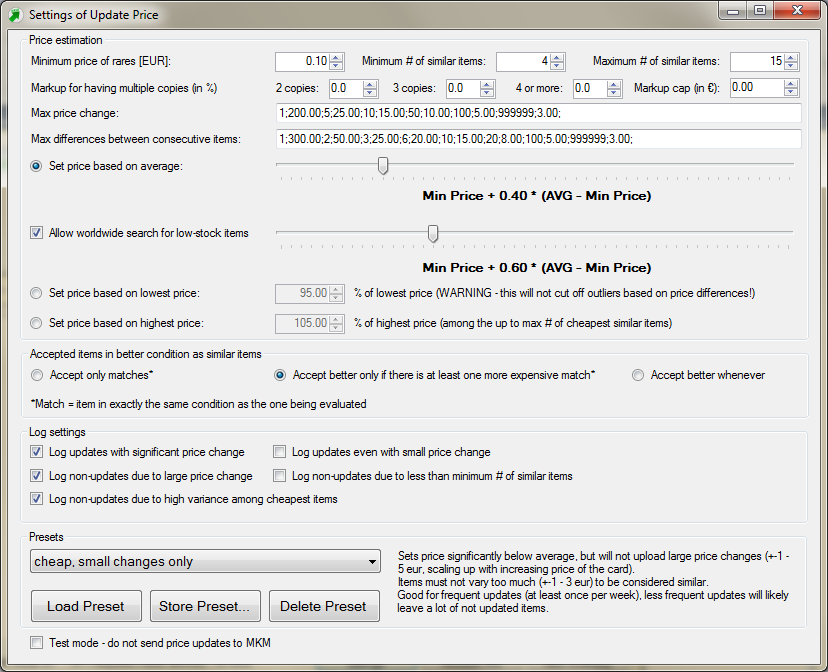
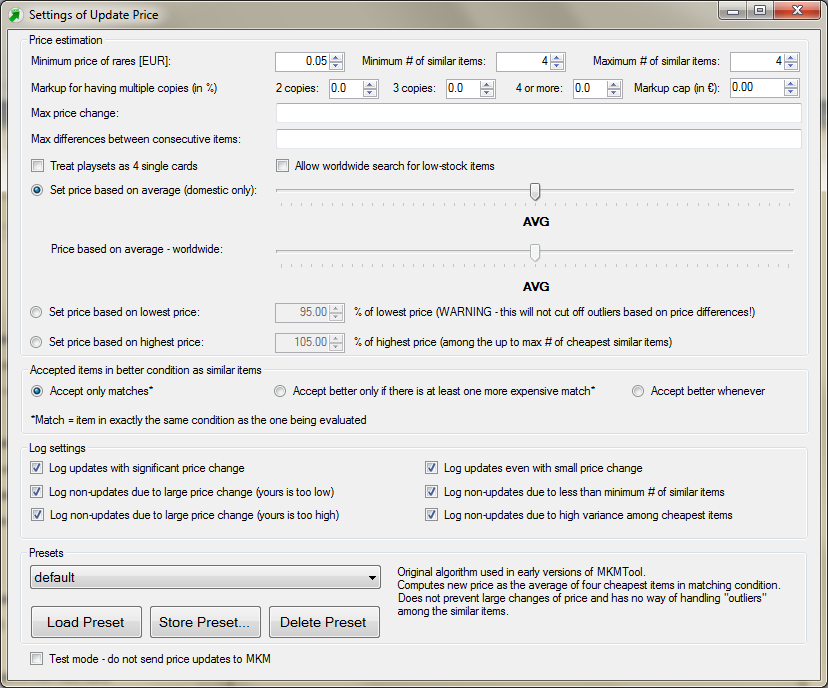
[updatePrice] Divided logging of non-updates due to large price change into "your price is too high" and "your price is too low" separate logging options
Also the app was actually ignoring it and instead checking the value of "non-updates due to high variance" where it should have been checking the "large price", so it was doing nothing

diff --git a/MKMTool/UpdatePriceSettings.Designer.cs b/MKMTool/UpdatePriceSettings.Designer.cs
@@ -64,7 +64,7 @@ namespace MKMTool
             System.ComponentModel.ComponentResourceManager resources = new System.ComponentModel.ComponentResourceManager(typeof(UpdatePriceSettings));
             this.groupBoxLogSettings = new System.Windows.Forms.GroupBox();
             this.checkBoxLogHighVariance = new System.Windows.Forms.CheckBox();
-            this.checkBoxLogLargeChange = new System.Windows.Forms.CheckBox();
+            this.checkBoxLogLargeChangeLow = new System.Windows.Forms.CheckBox();
             this.checkBoxLogSmallChange = new System.Windows.Forms.CheckBox();
             this.checkBoxLogMinItems = new System.Windows.Forms.CheckBox();
             this.checkBoxLogUpdated = new System.Windows.Forms.CheckBox();
@@ -75,6 +75,7 @@ namespace MKMTool
             this.radioButtonCondMatchOnly = new System.Windows.Forms.RadioButton();
             this.groupBoxPriceEstim = new System.Windows.Forms.GroupBox();
             this.labelWorlwideAvg = new System.Windows.Forms.Label();
+            this.checkBoxPricePlaysetIgnore = new System.Windows.Forms.CheckBox();
             this.labelMultCopiesCap = new System.Windows.Forms.Label();
             this.numericUpDownPriceMultCopiesCap = new System.Windows.Forms.NumericUpDown();
             this.label1 = new System.Windows.Forms.Label();
@@ -118,7 +119,7 @@ namespace MKMTool
             this.buttonPresetsLoad = new System.Windows.Forms.Button();
             this.comboBoxPresets = new System.Windows.Forms.ComboBox();
             this.toolTip1 = new System.Windows.Forms.ToolTip(this.components);
-            this.checkBoxPricePlaysetIgnore = new System.Windows.Forms.CheckBox();
+            this.checkBoxLogLargeChangeHigh = new System.Windows.Forms.CheckBox();
             this.groupBoxLogSettings.SuspendLayout();
             this.groupBoxConditionSettings.SuspendLayout();
             this.groupBoxPriceEstim.SuspendLayout();
@@ -141,8 +142,9 @@ namespace MKMTool
             // 
             // groupBoxLogSettings
             // 
+            this.groupBoxLogSettings.Controls.Add(this.checkBoxLogLargeChangeHigh);
             this.groupBoxLogSettings.Controls.Add(this.checkBoxLogHighVariance);
-            this.groupBoxLogSettings.Controls.Add(this.checkBoxLogLargeChange);
+            this.groupBoxLogSettings.Controls.Add(this.checkBoxLogLargeChangeLow);
             this.groupBoxLogSettings.Controls.Add(this.checkBoxLogSmallChange);
             this.groupBoxLogSettings.Controls.Add(this.checkBoxLogMinItems);
             this.groupBoxLogSettings.Controls.Add(this.checkBoxLogUpdated);
@@ -158,31 +160,31 @@ namespace MKMTool
             this.checkBoxLogHighVariance.AutoSize = true;
             this.checkBoxLogHighVariance.Checked = true;
             this.checkBoxLogHighVariance.CheckState = System.Windows.Forms.CheckState.Checked;
-            this.checkBoxLogHighVariance.Location = new System.Drawing.Point(10, 66);
+            this.checkBoxLogHighVariance.Location = new System.Drawing.Point(405, 66);
             this.checkBoxLogHighVariance.Name = "checkBoxLogHighVariance";
             this.checkBoxLogHighVariance.Size = new System.Drawing.Size(315, 17);
             this.checkBoxLogHighVariance.TabIndex = 4;
             this.checkBoxLogHighVariance.Text = "Log non-updates due to high variance among cheapest items";
             this.checkBoxLogHighVariance.UseVisualStyleBackColor = true;
             // 
-            // checkBoxLogLargeChange
+            // checkBoxLogLargeChangeLow
             // 
-            this.checkBoxLogLargeChange.AutoSize = true;
-            this.checkBoxLogLargeChange.Checked = true;
-            this.checkBoxLogLargeChange.CheckState = System.Windows.Forms.CheckState.Checked;
-            this.checkBoxLogLargeChange.Location = new System.Drawing.Point(10, 43);
-            this.checkBoxLogLargeChange.Name = "checkBoxLogLargeChange";
-            this.checkBoxLogLargeChange.Size = new System.Drawing.Size(230, 17);
-            this.checkBoxLogLargeChange.TabIndex = 3;
-            this.checkBoxLogLargeChange.Text = "Log non-updates due to large price change";
-            this.checkBoxLogLargeChange.UseVisualStyleBackColor = true;
+            this.checkBoxLogLargeChangeLow.AutoSize = true;
+            this.checkBoxLogLargeChangeLow.Checked = true;
+            this.checkBoxLogLargeChangeLow.CheckState = System.Windows.Forms.CheckState.Checked;
+            this.checkBoxLogLargeChangeLow.Location = new System.Drawing.Point(10, 43);
+            this.checkBoxLogLargeChangeLow.Name = "checkBoxLogLargeChangeLow";
+            this.checkBoxLogLargeChangeLow.Size = new System.Drawing.Size(311, 17);
+            this.checkBoxLogLargeChangeLow.TabIndex = 3;
+            this.checkBoxLogLargeChangeLow.Text = "Log non-updates due to large price change (yours is too low)";
+            this.checkBoxLogLargeChangeLow.UseVisualStyleBackColor = true;
             // 
             // checkBoxLogSmallChange
             // 
             this.checkBoxLogSmallChange.AutoSize = true;
             this.checkBoxLogSmallChange.Checked = true;
             this.checkBoxLogSmallChange.CheckState = System.Windows.Forms.CheckState.Checked;
-            this.checkBoxLogSmallChange.Location = new System.Drawing.Point(253, 19);
+            this.checkBoxLogSmallChange.Location = new System.Drawing.Point(405, 19);
             this.checkBoxLogSmallChange.Name = "checkBoxLogSmallChange";
             this.checkBoxLogSmallChange.Size = new System.Drawing.Size(225, 17);
             this.checkBoxLogSmallChange.TabIndex = 2;
@@ -194,7 +196,7 @@ namespace MKMTool
             this.checkBoxLogMinItems.AutoSize = true;
             this.checkBoxLogMinItems.Checked = true;
             this.checkBoxLogMinItems.CheckState = System.Windows.Forms.CheckState.Checked;
-            this.checkBoxLogMinItems.Location = new System.Drawing.Point(253, 43);
+            this.checkBoxLogMinItems.Location = new System.Drawing.Point(405, 43);
             this.checkBoxLogMinItems.Name = "checkBoxLogMinItems";
             this.checkBoxLogMinItems.Size = new System.Drawing.Size(307, 17);
             this.checkBoxLogMinItems.TabIndex = 1;
@@ -320,6 +322,17 @@ namespace MKMTool
             this.labelWorlwideAvg.Size = new System.Drawing.Size(179, 13);
             this.labelWorlwideAvg.TabIndex = 64;
             this.labelWorlwideAvg.Text = "Price based on average - worldwide:";
+            // 
+            // checkBoxPricePlaysetIgnore
+            // 
+            this.checkBoxPricePlaysetIgnore.AutoSize = true;
+            this.checkBoxPricePlaysetIgnore.Location = new System.Drawing.Point(11, 125);
+            this.checkBoxPricePlaysetIgnore.Name = "checkBoxPricePlaysetIgnore";
+            this.checkBoxPricePlaysetIgnore.Size = new System.Drawing.Size(174, 17);
+            this.checkBoxPricePlaysetIgnore.TabIndex = 63;
+            this.checkBoxPricePlaysetIgnore.Text = "Treat playsets as 4 single cards";
+            this.toolTip1.SetToolTip(this.checkBoxPricePlaysetIgnore, resources.GetString("checkBoxPricePlaysetIgnore.ToolTip"));
+            this.checkBoxPricePlaysetIgnore.UseVisualStyleBackColor = true;
             // 
             // labelMultCopiesCap
             // 
@@ -821,16 +834,17 @@ namespace MKMTool
             this.comboBoxPresets.DropDown += new System.EventHandler(this.comboBoxPresets_DropDown);
             this.comboBoxPresets.SelectedIndexChanged += new System.EventHandler(this.comboBoxPresets_SelectedIndexChanged);
             // 
-            // checkBoxPricePlaysetIgnore
+            // checkBoxLogLargeChangeHigh
             // 
-            this.checkBoxPricePlaysetIgnore.AutoSize = true;
-            this.checkBoxPricePlaysetIgnore.Location = new System.Drawing.Point(11, 125);
-            this.checkBoxPricePlaysetIgnore.Name = "checkBoxPricePlaysetIgnore";
-            this.checkBoxPricePlaysetIgnore.Size = new System.Drawing.Size(174, 17);
-            this.checkBoxPricePlaysetIgnore.TabIndex = 63;
-            this.checkBoxPricePlaysetIgnore.Text = "Treat playsets as 4 single cards";
-            this.toolTip1.SetToolTip(this.checkBoxPricePlaysetIgnore, resources.GetString("checkBoxPricePlaysetIgnore.ToolTip"));
-            this.checkBoxPricePlaysetIgnore.UseVisualStyleBackColor = true;
+            this.checkBoxLogLargeChangeHigh.AutoSize = true;
+            this.checkBoxLogLargeChangeHigh.Checked = true;
+            this.checkBoxLogLargeChangeHigh.CheckState = System.Windows.Forms.CheckState.Checked;
+            this.checkBoxLogLargeChangeHigh.Location = new System.Drawing.Point(11, 66);
+            this.checkBoxLogLargeChangeHigh.Name = "checkBoxLogLargeChangeHigh";
+            this.checkBoxLogLargeChangeHigh.Size = new System.Drawing.Size(315, 17);
+            this.checkBoxLogLargeChangeHigh.TabIndex = 5;
+            this.checkBoxLogLargeChangeHigh.Text = "Log non-updates due to large price change (yours is too high)";
+            this.checkBoxLogLargeChangeHigh.UseVisualStyleBackColor = true;
             // 
             // UpdatePriceSettings
             // 
@@ -874,7 +888,7 @@ namespace MKMTool
         #endregion
 
         private System.Windows.Forms.GroupBox groupBoxLogSettings;
-        private System.Windows.Forms.CheckBox checkBoxLogLargeChange;
+        private System.Windows.Forms.CheckBox checkBoxLogLargeChangeLow;
         private System.Windows.Forms.CheckBox checkBoxLogSmallChange;
         private System.Windows.Forms.CheckBox checkBoxLogMinItems;
         private System.Windows.Forms.CheckBox checkBoxLogUpdated;
@@ -930,5 +944,6 @@ namespace MKMTool
         private System.Windows.Forms.Label labelMultiples;
         private System.Windows.Forms.Label labelWorlwideAvg;
         private System.Windows.Forms.CheckBox checkBoxPricePlaysetIgnore;
+        private System.Windows.Forms.CheckBox checkBoxLogLargeChangeHigh;
     }
 }

diff --git a/MKMTool/MKMBot.cs b/MKMTool/MKMBot.cs
@@ -88,7 +88,7 @@ namespace MKMTool
 
         /// Log Settings
 
-        public bool logUpdated, logLessThanMinimum, logSmallPriceChange, logHighPriceChange, logHighPriceVariance;
+        public bool logUpdated, logLessThanMinimum, logSmallPriceChange, logLargePriceChangeTooLow, logLargePriceChangeTooHigh, logHighPriceVariance;
 
         /// Other Settings
 
@@ -132,7 +132,8 @@ namespace MKMTool
             logUpdated = refSettings.logUpdated;
             logLessThanMinimum = refSettings.logLessThanMinimum;
             logSmallPriceChange = refSettings.logSmallPriceChange;
-            logHighPriceChange = refSettings.logHighPriceChange;
+            logLargePriceChangeTooLow = refSettings.logLargePriceChangeTooLow;
+            logLargePriceChangeTooHigh = refSettings.logLargePriceChangeTooHigh;
             logHighPriceVariance = refSettings.logHighPriceVariance;
             testMode = refSettings.testMode;
             description = refSettings.description;
@@ -228,8 +229,11 @@ namespace MKMTool
                     case "logSmallPriceChange":
                         temp.logSmallPriceChange = bool.Parse(att.Value);
                         break;
-                    case "logHighPriceChange":
-                        temp.logHighPriceChange = bool.Parse(att.Value);
+                    case "logLargePriceChangeTooLow":
+                        temp.logLargePriceChangeTooLow = bool.Parse(att.Value);
+                        break;
+                    case "logLargePriceChangeTooHigh":
+                        temp.logLargePriceChangeTooHigh = bool.Parse(att.Value);
                         break;
                     case "logHighPriceVariance":
                         temp.logHighPriceVariance = bool.Parse(att.Value);
@@ -289,7 +293,8 @@ namespace MKMTool
             root.SetAttribute("logUpdated", logUpdated.ToString());
             root.SetAttribute("logLessThanMinimum", logLessThanMinimum.ToString());
             root.SetAttribute("logSmallPriceChange", logSmallPriceChange.ToString());
-            root.SetAttribute("logHighPriceChange", logHighPriceChange.ToString());
+            root.SetAttribute("logLargePriceChangeTooLow", logLargePriceChangeTooLow.ToString());
+            root.SetAttribute("logLargePriceChangeTooHigh", logLargePriceChangeTooHigh.ToString());
             root.SetAttribute("logHighPriceVariance", logHighPriceVariance.ToString());
 
             root.SetAttribute("testMode", testMode.ToString());
@@ -345,7 +350,8 @@ namespace MKMTool
             s.logUpdated = true;
             s.logLessThanMinimum = true;
             s.logSmallPriceChange = true;
-            s.logHighPriceChange = true;
+            s.logLargePriceChangeTooLow = true;
+            s.logLargePriceChangeTooHigh = true;
             s.logHighPriceVariance = true;
 
             s.testMode = false;
@@ -739,10 +745,12 @@ namespace MKMTool
             {
                 if (dOldPrice < limits.Key)
                 {
-                    if (Math.Abs(dOldPrice - priceEstimation) > dOldPrice * limits.Value)
+                    double priceDif = dOldPrice - priceEstimation; // positive when our price is too high, negative when our price is too low
+                    if (Math.Abs(priceDif) > dOldPrice * limits.Value)
                     {
                         priceEstimation = -1;
-                        if (settings.logHighPriceVariance)
+                        if (settings.logLargePriceChangeTooHigh && priceDif > 0 ||
+                            settings.logLargePriceChangeTooLow && priceDif < 0)
                             MainView.Instance().logBox.Invoke(new MainView.logboxAppendCallback(MainView.Instance().logBoxAppend),
                                 sArticleID + ">>> " + article["product"]["enName"].InnerText +
                                 " (" + article["product"]["expansion"].InnerText + ", " + article["language"]["languageName"].InnerText + ")" + Environment.NewLine +

diff --git a/MKMTool/UpdatePriceSettings.cs b/MKMTool/UpdatePriceSettings.cs
@@ -150,7 +150,8 @@ namespace MKMTool
             s.logUpdated = checkBoxLogUpdated.Checked;
             s.logLessThanMinimum = checkBoxLogMinItems.Checked;
             s.logSmallPriceChange = checkBoxLogSmallChange.Checked;
-            s.logHighPriceChange = checkBoxLogLargeChange.Checked;
+            s.logLargePriceChangeTooLow = checkBoxLogLargeChangeLow.Checked;
+            s.logLargePriceChangeTooHigh = checkBoxLogLargeChangeHigh.Checked;
             s.logHighPriceVariance = checkBoxLogHighVariance.Checked;
             
             s.testMode = checkBoxTestMode.Checked;
@@ -236,7 +237,8 @@ namespace MKMTool
             checkBoxLogUpdated.Checked = settings.logUpdated;
             checkBoxLogMinItems.Checked = settings.logLessThanMinimum;
             checkBoxLogSmallChange.Checked = settings.logSmallPriceChange;
-            checkBoxLogLargeChange.Checked = settings.logHighPriceChange;
+            checkBoxLogLargeChangeLow.Checked = settings.logLargePriceChangeTooLow;
+            checkBoxLogLargeChangeHigh.Checked = settings.logLargePriceChangeTooHigh;
             checkBoxLogHighVariance.Checked = settings.logHighPriceVariance;
 
             checkBoxTestMode.Checked = settings.testMode;

diff --git a/README.md b/README.md
@@ -10,6 +10,7 @@ version 0.7.0, x.x.2019 (by Tomas Janak)
 + Added the option to use different price factor for the average price when worldwide search is used for price update (there is a separate slider for it now)
 + Added the option to add markup on estimated price when you have multiple copies of a given card (see documentation below)
 + Added the option to "ignore" the playset flag when updating prices - when turned on, all articles marked as playset will be treated as 4x single card
++ Separated "log non-updated if price change too large" log option into two - you can now select if you want to log these non-updates only when your price is higher or only when it is lower (also fixed it as the non-updates due to high variance was actually checked when this one should have been checked, so the this checkbox wasn't doing anything). Note that this is not backwards compatible with previous presets - when you load your own preset, you need to check the logging options you like and save it again.
 
 9.2.2019 (by Tomas Janak)
 + Fixed "Bad Request 400" error when working with more than 100 items (partially by Ramiro Aparicio) after API changes announced on 6.2.2019
@@ -123,7 +124,7 @@ The following figure shows the settings window. Each of the parameters will now 
 + **Log updates with significant price change:** when checked, information containing old and new price will be printed in the log for each succesfully updated card. However, the "Minimum price of rares" will be used to determine if you consider the price change significant - when a new price for some item is computed, it is compared to the old price. If the difference is not smaller or higher by the minimum rare price (or more), it will be considered insignificant. This is done so that less items are listed in the output log, so you can easily check only the important changes that were made.
 + **Log updates due to minimal price change:** if the price changed only little, it will not be updated (see "Log updates with significant price change" above). If you want to be notified about such items anyway, check this box.
 + **Log non-updates due to less than minimum # of similar items:** this is tied to the "Minimum # of similar items" parameter. It can be helpful when you are tuning your parameters, mainly the "max allowed difference", to see if you are not culling items away too aggressively.
-+ **Log non-updates due to large price change:** this is tied to the "Max price change"  parameter. It is recommended to always leave it turned on - you will be notified about items that spiked in price. However, if you are not updating your prices regularly or you don't have the time to check the log all the time, you might want to simply open up your "max price change" limits.
++ **Log non-updates due to large price change:** this is tied to the "Max price change"  parameter. It is recommended to always leave it turned on - you will be notified about items that spiked in price. However, if you are not updating your prices regularly or you don't have the time to check the log all the time, you might want to simply open up your "max price change" limits. There are also separate checkboxes for when your price is too high and for when it is too low. For example, if you do not care too much if your articles are overpriced, but you want to make sure you don't miss if some price went up, you can check the "yours is too low" version and keep the "yours is too high" unchecked.
 + **Log non-updates due to high variance:** this is tied to the "Max difference between consecutive items" parameter, specifically to it's first application to the initial part of the sequence of similar items: if the sequence colletion had to be abandoned because outliers were culled away early, you will be notified about them if this is turned on.
 + **Presets:** since tuning all the parameter can be time consuming, the Preset mechanism allows you to save them once you are happy with them and then re-use them later. Presets are stored in the "Preset" folder as .xml files and contain values for all the settings you can make in MKMTool + a brief description of what the author of the preset wanted to achieve. If you create some interesting preset, you can easily share it with others by simply sending them the xml file (there is a separate file for each preset) and placing it in the "Preset" folder (the app needs to be restarted to load the newly added files). 
     
